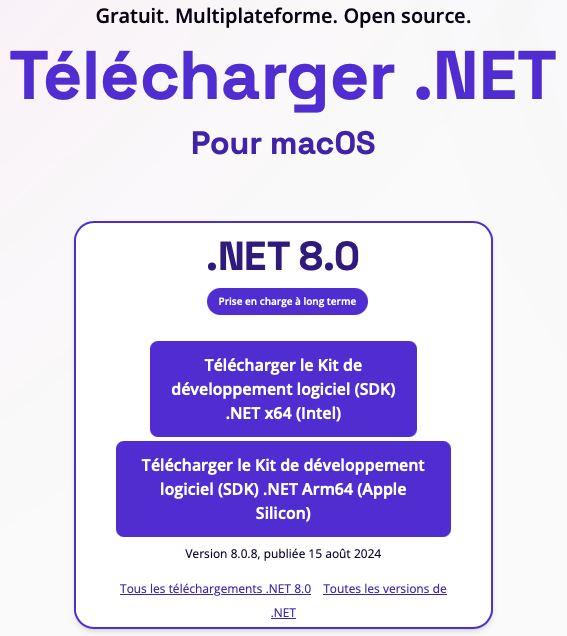
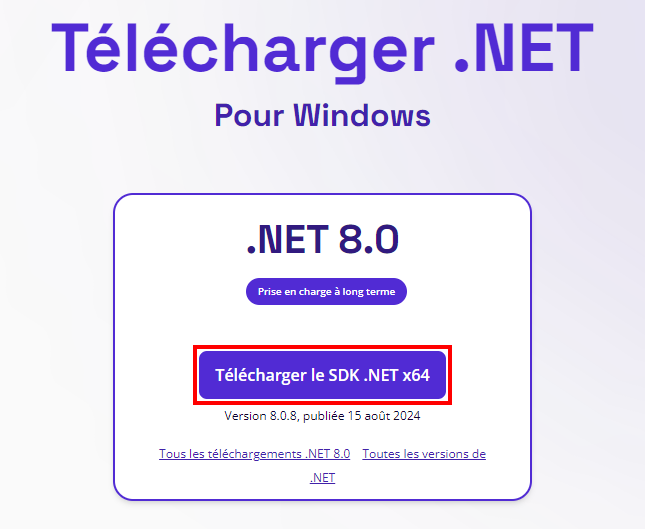
Modification quelques images et de quelques mots

Changed region(s): [[0.1199, 0.3327, 0.8695, 0.9981], [0.0, 0.0, 0.9894, 0.242]]

diff --git a/LOGICIELS.md b/LOGICIELS.md
@@ -60,13 +60,13 @@ Une fois l'installation de Visual Studio 2022 lancée, rendez-vous à [cette sec
 ## Exercice 3 - Installation de Dotnet 8.0
 
 - Naviguez le site [https://dotnet.microsoft.com](https://dotnet.microsoft.com)
-- Cliquez sur le bouton "Download"
+- Cliquez sur le bouton "Télécharger"
 
 ![Site dotnet](img/dotnet_site_01.png)
 
 
-- Repérez la version "Long Term Support" 8.0
-- Choisissez le lien ".NET SDK x64"
+- Repérez la version "Prise en charge à long terme" de .NET 8.0
+- Cliquez sur "Télécharger le SDK .NET x64"
 
 ![image](img/dotnet_site_02.PNG)
 
